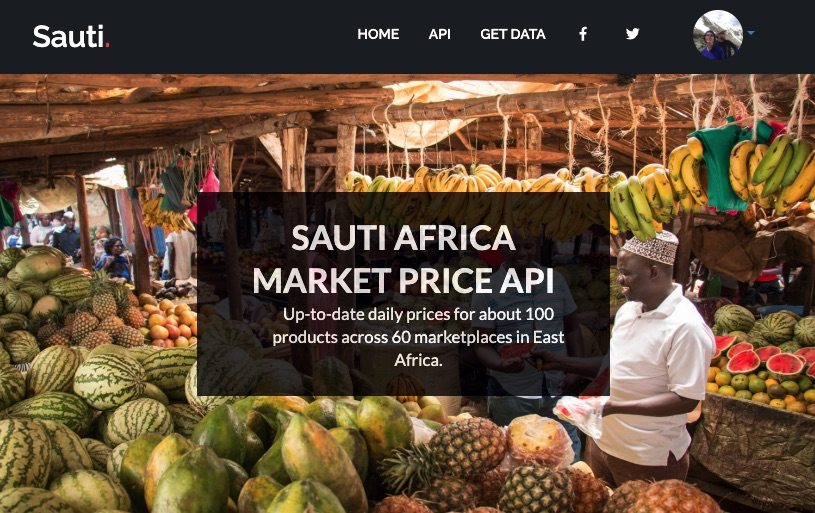
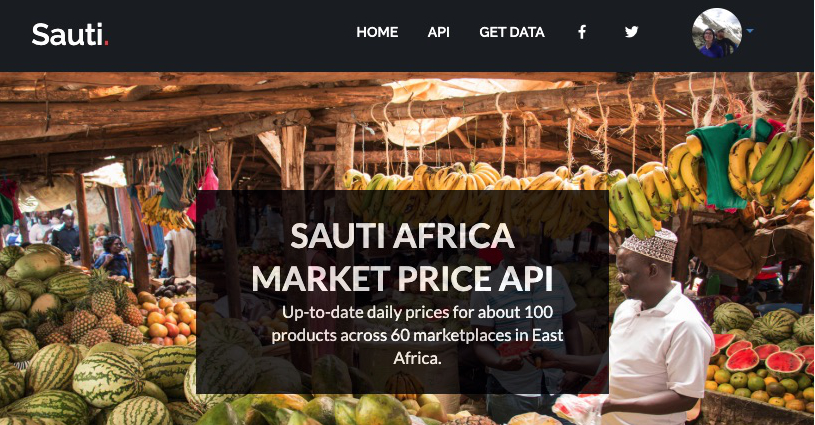
feature sauti image fit

diff --git a/index.html b/index.html
@@ -41,7 +41,7 @@
 
 		<!-- Feature 1 -->
 			<article id="first" class="container box style1 right">
-				<a target="_blank" rel="noopener noreferrer" href=""" class="image fit"><img id="appstore" src="images/lambdaappstore.jpg" onmouseover="" onmouseout="" alt="screenshot of lambda app store" /></a>
+				<a target="_blank" rel="noopener noreferrer" href=""" class="image fit"><img id="appstore" src="images/sauti-home.jpg" onmouseover="" onmouseout="" alt="Sauti Market Price Data homepage" title="Sauti Africa API" /></a>
 				<div class="inner">
 					<header>
 						<h3>Lambda App Store</h3>
